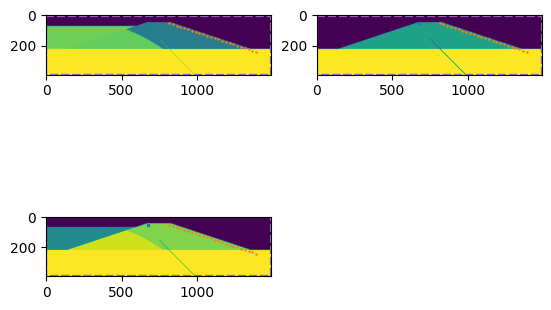
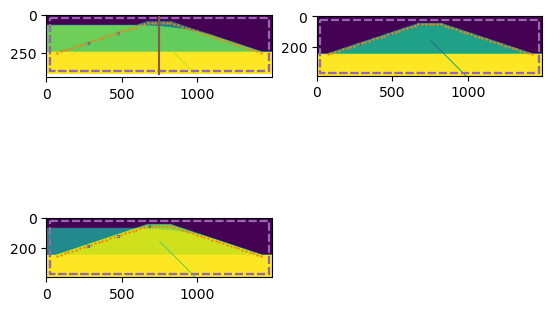
.

diff --git a/scripts/pre_proc_dam_crack.py b/scripts/pre_proc_dam_crack.py
@@ -51,7 +51,7 @@ len = l_uadd + l_usl + l_top + l_dsl + l_dadd  # Meters
 
 d_top = 0.5
 d_wt = 1.0
-d_sub = 4.0
+d_sub = 4.5
 d_tot = 7.0
 dep = d_tot # Depth
 
@@ -74,10 +74,10 @@ isurf_top = 0; isurf_bottom = 0; isurf_left = 0; isurf_right = 0
 
 
 snap_t1 = 0; snap_t2 = nt-1 # snap in time steps
-snap_z1 = fpad #+npml_top+int(d_wt/dz) 
-snap_z2 = nz - fpad #- npml_bottom #fpad+npml_top+int(d_tot/dz) # snap boundaries z
-snap_x1 = fpad #int(nx/2 - 1.0*l_top/dz) 
-snap_x2 = nx - fpad #int(nx/2  + 1.0*l_top/dz) # snap boundaries x
+snap_z1 = fpad + npml_top #+int(d_wt/dz) 
+snap_z2 = nz - fpad - npml_bottom #fpad+npml_top+int(d_tot/dz) # snap boundaries z
+snap_x1 = fpad + npml_left #int(nx/2 - 1.0*l_top/dz) 
+snap_x2 = nx - fpad - npml_right #int(nx/2  + 1.0*l_top/dz) # snap boundaries x
 snap_dt = 10; snap_dz = 1; snap_dx = 1; # the snap interval
 
 # Taper position
@@ -127,7 +127,7 @@ rho_sand_sat = 1950.0
 lam_sand_sat, mu_sand_sat = v_lami(1450, 400, rho_sand_sat)
 
 rho_sand_grout = 1000.0 #2000.0
-lam_sand_grout, mu_sand_grout = v_lami(1400, 100.0, rho_sand_grout)
+lam_sand_grout, mu_sand_grout = v_lami(1482, 0.0, rho_sand_grout)
 
 # --------------------------------------------
 
@@ -157,7 +157,7 @@ for iz in range(0, nz):
                     mu[iz][ix] = mu_sand
                     rho[iz][ix] = rho_sand
                     
-                    if (iz-42) > 0.00065*(ix-248)*(ix-248):
+                    if (iz-72) > 0.00025*(ix-593)*(ix-593):
                         lam[iz][ix] = lam_sand_sat
                         mu[iz][ix] = mu_sand_sat
                         rho[iz][ix] = rho_sand_sat
@@ -226,8 +226,8 @@ stf_type = 1; rtf_type = 0 # 1:velocity, 2:displacement
 #zsrc = np.full((xsrc.size,), npml_top+ int((d_wt+0.5)/dz), dtype=int)
 
 # Creating source locations
-xsrc = np.zeros((1,), dtype=int)
-zsrc = np.zeros((1,), dtype=int)
+xsrc = np.zeros((3,), dtype=int)
+zsrc = np.zeros((3,), dtype=int)
 nsrc = zsrc.size # counting number of sources from the source location data
 
 for isr in range(0,zsrc.size):
@@ -244,9 +244,10 @@ src_shot_to_fire = np.arange(0,nsrc,1, dtype=int)
 
 nshot = nsrc # fire each shot separately
 
+'''
 # Creating reciever locations
-xrec = np.zeros((24,), dtype=int)
-zrec = np.zeros((24,), dtype=int)
+xrec1 = np.zeros((24,), dtype=int)
+zrec1 = np.zeros((24,), dtype=int)
 nrec = zrec.size # counting the recievers from the locations
 
 for ir in range(0,zrec.size):
@@ -254,7 +255,27 @@ for ir in range(0,zrec.size):
     iz = (4.0)/nrec
     xrec[ir] = int(fpad + npml_left + (l_uadd + l_usl + l_top + ir*ix - 0.1)/dx)
     zrec[ir] = int(fpad + npml_top + (d_top +ir*iz+0.1)/dz)
+'''    
+xrec = np.linspace(int(fpad + npml_left + (l_uadd )/dx), int(fpad + npml_left +(l_uadd +l_usl + l_top+l_dsl)/dx), 55, dtype=int)
+nrec = xrec.size # counting the recievers from the locations 
+zrec = np.zeros(xrec.size)  
+# plotting the middle line 
+x_mid = (2*fpad+npml_left +npml_right+(l_uadd+l_usl+l_top+l_dsl+l_dadd)/dx + 1)/2
+slope_factor = (1/3)#* (l_usl + l_top+l_dsl)/(dx*nrec)
+for ii in range(0, xrec.size):
+    if xrec[ii] < int(fpad + npml_left + (l_uadd + l_usl )/dx):
+        zrec[ii] = int(fpad + npml_top + (d_sub+0.1)/dz - 0.33*(xrec[ii]-xrec[0]))
+        #zrec[-ii+1] = int(fpad + npml_top + d_sub/dz - 0.33*(xrec[ii]-xrec[0]))
+    elif xrec[ii] < int(fpad + npml_left + (l_uadd + l_usl + l_top )/dx):
+        zrec[ii]    = int(fpad + npml_top + (d_top+0.1)/dz)
+        #zrec[-ii+1] = int(fpad + npml_top + (d_top+0.1)/dz)
+    else:
+        zrec[ii] = zrec[-ii-1]
+        
+        
     
+        
+
 # overwrite the recorder to the last source location
 #xrec[0] = xsrc[2]
 #zrec[0] = zsrc[2]
@@ -268,6 +289,7 @@ Cs = np.sqrt(mu/rho)
 Cp = np.sqrt((lam + 2 * mu)/rho)
     
 
+
 print('Plotting initial materials')
 fig = plt.figure(1)
 plt.subplot(221)
@@ -277,6 +299,7 @@ plt.plot(xrec,zrec, ls = '', marker= '+', markersize=2) # reciever positions
 plt.plot([snap_x1, snap_x2, snap_x2, snap_x1, snap_x1], [snap_z1, snap_z1, snap_z2, snap_z2, snap_z1], ls = '--')
 plt.plot([taper_l1, taper_r1, taper_r1, taper_l1, taper_l1], [taper_t1, taper_t1, taper_b1, taper_b1, taper_t1], ls = '--')
 plt.plot([taper_l2, taper_r2, taper_r2, taper_l2, taper_l2], [taper_t2, taper_t2, taper_b2, taper_b2, taper_t2], ls = '--')
+plt.plot((x_mid, x_mid), (0, nz))
 plt.subplot(222)
 plt.imshow(Cs)
 plt.plot(xsrc,zsrc, ls = '', marker= 'x', markersize=2) # source positions
